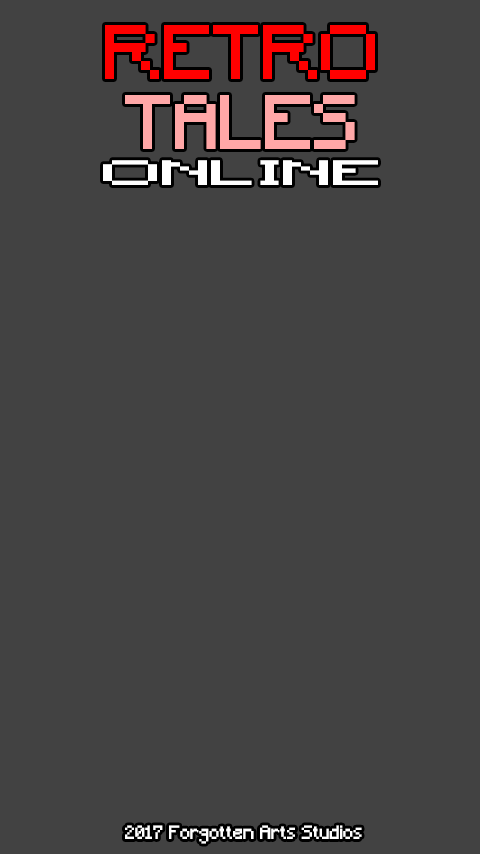
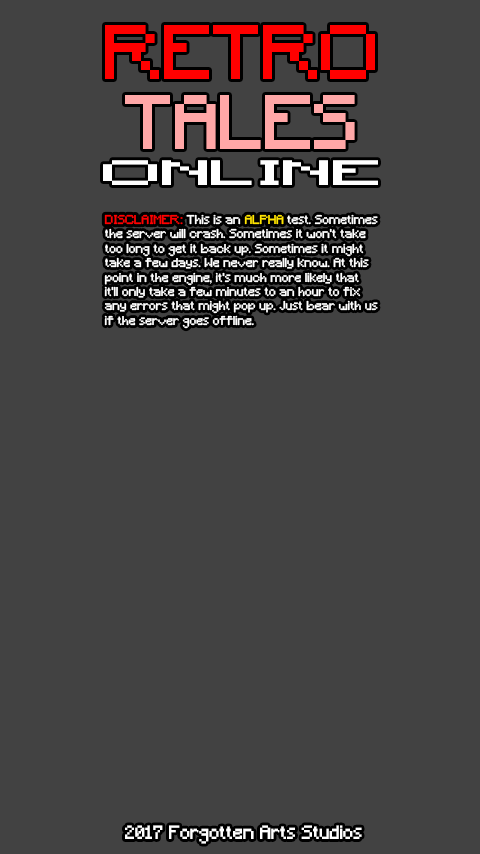
Added disclaimer to Android client.

Changed region(s): [[0.1875, 0.2436, 0.8125, 0.3958]]

diff --git a/rtoserver/src/main/java/com/forgottenartsstudios/networking/packetdata/HandleServerData.java b/rtoserver/src/main/java/com/forgottenartsstudios/networking/packetdata/HandleServerData.java
@@ -681,42 +681,48 @@ public class HandleServerData {
         switch (dir) {
             case ServerVars.DIR_UP:
                 for (int i = 1; i <= ServerVars.MaxMapNPCs; i++) {
-                    if (ServerVars.MapNPCs[mapNum].Npc[i].getX() == x && ServerVars.MapNPCs[mapNum].Npc[i].getY() == y - 1) {
-                        if (ServerVars.npcs[ServerVars.MapNPCs[mapNum].Npc[i].getNum()].Behaviour < 2 || ServerVars.npcs[ServerVars.MapNPCs[mapNum].Npc[i].getNum()].Behaviour == 10) {
-                            if (!ServerVars.MapNPCs[mapNum].Npc[i].isDead()) {
-                                // Damage Algorithm
-                                double diff = RTOServer.GetPlayerDamage(index) - RTOServer.GetNpcProtection(i);
-                                if (diff < 0) diff = 0;
+                    if (ServerVars.MapNPCs == null) { return; }
+                    if (ServerVars.MapNPCs[mapNum] == null) { return; }
+                    if (ServerVars.MapNPCs[mapNum].Npc == null) { return; }
+                    if (ServerVars.MapNPCs[mapNum].Npc[i] == null) { return; }
+                    if (!ServerVars.MapNPCs[mapNum].Npc[i].isDead()) {
+                        if (ServerVars.MapNPCs[mapNum].Npc[i].getX() == x && ServerVars.MapNPCs[mapNum].Npc[i].getY() == y - 1) {
+                            if (ServerVars.npcs[ServerVars.MapNPCs[mapNum].Npc[i].getNum()].Behaviour < 2 || ServerVars.npcs[ServerVars.MapNPCs[mapNum].Npc[i].getNum()].Behaviour == 10) {
+                                if (!ServerVars.MapNPCs[mapNum].Npc[i].isDead()) {
+                                    // Damage Algorithm
+                                    double diff = RTOServer.GetPlayerDamage(index) - RTOServer.GetNpcProtection(i);
+                                    if (diff < 0) diff = 0;
 
-                                // Increase up to 10% for minimum damage
-                                double minDam = diff - Math.round(diff * 0.1);
-                                double maxDam = diff + Math.round(diff * 0.1);
-                                if (maxDam < minDam) minDam = maxDam;
-                                int Damage = ServerVars.Rnd.nextInt((int)maxDam - (int)minDam + 1) + (int)minDam;
+                                    // Increase up to 10% for minimum damage
+                                    double minDam = diff - Math.round(diff * 0.1);
+                                    double maxDam = diff + Math.round(diff * 0.1);
+                                    if (maxDam < minDam) minDam = maxDam;
+                                    int Damage = ServerVars.Rnd.nextInt((int) maxDam - (int) minDam + 1) + (int) minDam;
 
-                                if (Damage > 0) {
-                                    ServerVars.MapNPCs[mapNum].Npc[i].setHP(ServerVars.MapNPCs[mapNum].Npc[i].getHP() - Damage);
-                                    ServerVars.MapNPCs[mapNum].Npc[i].setTarget(index);
-                                    ServerVars.MapNPCs[mapNum].Npc[i].setTargetType(ServerVars.TARGET_TYPE_PLAYER);
-                                    SendServerData.SendNPCDmg(index, i, Damage);
-                                    if (ServerVars.MapNPCs[mapNum].Npc[i].getHP() <= 0) {
-                                        ServerVars.MapNPCs[mapNum].Npc[i].setHP(0);
-                                        ServerVars.MapNPCs[mapNum].Npc[i].setDead(true);
-                                        ServerVars.MapNPCs[mapNum].Npc[i].setSpawnWait(ServerVars.npcs[ServerVars.MapNPCs[mapNum].Npc[i].getNum()].SpawnSecs);
+                                    if (Damage > 0) {
+                                        ServerVars.MapNPCs[mapNum].Npc[i].setHP(ServerVars.MapNPCs[mapNum].Npc[i].getHP() - Damage);
+                                        ServerVars.MapNPCs[mapNum].Npc[i].setTarget(index);
+                                        ServerVars.MapNPCs[mapNum].Npc[i].setTargetType(ServerVars.TARGET_TYPE_PLAYER);
+                                        SendServerData.SendNPCDmg(index, i, Damage);
+                                        if (ServerVars.MapNPCs[mapNum].Npc[i].getHP() <= 0) {
+                                            ServerVars.MapNPCs[mapNum].Npc[i].setHP(0);
+                                            ServerVars.MapNPCs[mapNum].Npc[i].setDead(true);
+                                            ServerVars.MapNPCs[mapNum].Npc[i].setSpawnWait(ServerVars.npcs[ServerVars.MapNPCs[mapNum].Npc[i].getNum()].SpawnSecs);
 
-                                        SendServerData.SendKillNPC(index, i, true);
-                                        for (int a = 1; a <= ServerVars.MaxPlayers; a++) {
-                                            if (a != index) {
-                                                if (ServerVars.Players[a] != null) {
-                                                    if (mapNum == ServerVars.Players[a].getMap()) {
-                                                        SendServerData.SendKillNPC(a, i, false);
+                                            SendServerData.SendKillNPC(index, i, true);
+                                            for (int a = 1; a <= ServerVars.MaxPlayers; a++) {
+                                                if (a != index) {
+                                                    if (ServerVars.Players[a] != null) {
+                                                        if (mapNum == ServerVars.Players[a].getMap()) {
+                                                            SendServerData.SendKillNPC(a, i, false);
+                                                        }
                                                     }
                                                 }
                                             }
                                         }
+                                    } else {
+                                        SendServerData.SendNPCDmg(index, i, 0);
                                     }
-                                } else {
-                                    SendServerData.SendNPCDmg(index, i, 0);
                                 }
                             }
                         }
@@ -725,42 +731,48 @@ public class HandleServerData {
                 break;
             case ServerVars.DIR_DOWN:
                 for (int i = 1; i <= ServerVars.MaxMapNPCs; i++) {
-                    if (ServerVars.MapNPCs[mapNum].Npc[i].getX() == x && ServerVars.MapNPCs[mapNum].Npc[i].getY() == y + 1) {
-                        if (ServerVars.npcs[ServerVars.MapNPCs[mapNum].Npc[i].getNum()].Behaviour < 2 || ServerVars.npcs[ServerVars.MapNPCs[mapNum].Npc[i].getNum()].Behaviour == 10) {
-                            if (!ServerVars.MapNPCs[mapNum].Npc[i].isDead()) {
-                                // Damage Algorithm
-                                double diff = RTOServer.GetPlayerDamage(index) - RTOServer.GetNpcProtection(i);
-                                if (diff < 0) diff = 0;
+                    if (ServerVars.MapNPCs == null) { return; }
+                    if (ServerVars.MapNPCs[mapNum] == null) { return; }
+                    if (ServerVars.MapNPCs[mapNum].Npc == null) { return; }
+                    if (ServerVars.MapNPCs[mapNum].Npc[i] == null) { return; }
+                    if (!ServerVars.MapNPCs[mapNum].Npc[i].isDead()) {
+                        if (ServerVars.MapNPCs[mapNum].Npc[i].getX() == x && ServerVars.MapNPCs[mapNum].Npc[i].getY() == y + 1) {
+                            if (ServerVars.npcs[ServerVars.MapNPCs[mapNum].Npc[i].getNum()].Behaviour < 2 || ServerVars.npcs[ServerVars.MapNPCs[mapNum].Npc[i].getNum()].Behaviour == 10) {
+                                if (!ServerVars.MapNPCs[mapNum].Npc[i].isDead()) {
+                                    // Damage Algorithm
+                                    double diff = RTOServer.GetPlayerDamage(index) - RTOServer.GetNpcProtection(i);
+                                    if (diff < 0) diff = 0;
 
-                                // Increase up to 10% for minimum damage
-                                double minDam = diff - Math.round(diff * 0.1);
-                                double maxDam = diff + Math.round(diff * 0.1);
-                                if (maxDam < minDam) minDam = maxDam;
-                                int Damage = ServerVars.Rnd.nextInt((int)maxDam - (int)minDam + 1) + (int)minDam;
+                                    // Increase up to 10% for minimum damage
+                                    double minDam = diff - Math.round(diff * 0.1);
+                                    double maxDam = diff + Math.round(diff * 0.1);
+                                    if (maxDam < minDam) minDam = maxDam;
+                                    int Damage = ServerVars.Rnd.nextInt((int) maxDam - (int) minDam + 1) + (int) minDam;
 
-                                if (Damage > 0) {
-                                    ServerVars.MapNPCs[mapNum].Npc[i].setHP(ServerVars.MapNPCs[mapNum].Npc[i].getHP() - Damage);
-                                    ServerVars.MapNPCs[mapNum].Npc[i].setTarget(index);
-                                    ServerVars.MapNPCs[mapNum].Npc[i].setTargetType(ServerVars.TARGET_TYPE_PLAYER);
-                                    SendServerData.SendNPCDmg(index, i, Damage);
-                                    if (ServerVars.MapNPCs[mapNum].Npc[i].getHP() <= 0) {
-                                        ServerVars.MapNPCs[mapNum].Npc[i].setHP(0);
-                                        ServerVars.MapNPCs[mapNum].Npc[i].setDead(true);
-                                        ServerVars.MapNPCs[mapNum].Npc[i].setSpawnWait(ServerVars.npcs[ServerVars.MapNPCs[mapNum].Npc[i].getNum()].SpawnSecs);
+                                    if (Damage > 0) {
+                                        ServerVars.MapNPCs[mapNum].Npc[i].setHP(ServerVars.MapNPCs[mapNum].Npc[i].getHP() - Damage);
+                                        ServerVars.MapNPCs[mapNum].Npc[i].setTarget(index);
+                                        ServerVars.MapNPCs[mapNum].Npc[i].setTargetType(ServerVars.TARGET_TYPE_PLAYER);
+                                        SendServerData.SendNPCDmg(index, i, Damage);
+                                        if (ServerVars.MapNPCs[mapNum].Npc[i].getHP() <= 0) {
+                                            ServerVars.MapNPCs[mapNum].Npc[i].setHP(0);
+                                            ServerVars.MapNPCs[mapNum].Npc[i].setDead(true);
+                                            ServerVars.MapNPCs[mapNum].Npc[i].setSpawnWait(ServerVars.npcs[ServerVars.MapNPCs[mapNum].Npc[i].getNum()].SpawnSecs);
 
-                                        SendServerData.SendKillNPC(index, i, true);
-                                        for (int a = 1; a <= ServerVars.MaxPlayers; a++) {
-                                            if (a != index) {
-                                                if (ServerVars.Players[a] != null) {
-                                                    if (mapNum == ServerVars.Players[a].getMap()) {
-                                                        SendServerData.SendKillNPC(a, i, false);
+                                            SendServerData.SendKillNPC(index, i, true);
+                                            for (int a = 1; a <= ServerVars.MaxPlayers; a++) {
+                                                if (a != index) {
+                                                    if (ServerVars.Players[a] != null) {
+                                                        if (mapNum == ServerVars.Players[a].getMap()) {
+                                                            SendServerData.SendKillNPC(a, i, false);
+                                                        }
                                                     }
                                                 }
                                             }
                                         }
+                                    } else {
+                                        SendServerData.SendNPCDmg(index, i, 0);
                                     }
-                                } else {
-                                    SendServerData.SendNPCDmg(index, i, 0);
                                 }
                             }
                         }
@@ -769,42 +781,48 @@ public class HandleServerData {
                 break;
             case ServerVars.DIR_LEFT:
                 for (int i = 1; i <= ServerVars.MaxMapNPCs; i++) {
-                    if (ServerVars.MapNPCs[mapNum].Npc[i].getX() == x - 1 && ServerVars.MapNPCs[mapNum].Npc[i].getY() == y) {
-                        if (ServerVars.npcs[ServerVars.MapNPCs[mapNum].Npc[i].getNum()].Behaviour < 2 || ServerVars.npcs[ServerVars.MapNPCs[mapNum].Npc[i].getNum()].Behaviour == 10) {
-                            if (!ServerVars.MapNPCs[mapNum].Npc[i].isDead()) {
-                                // Damage Algorithm
-                                double diff = RTOServer.GetPlayerDamage(index) - RTOServer.GetNpcProtection(i);
-                                if (diff < 0) diff = 0;
+                    if (ServerVars.MapNPCs == null) { return; }
+                    if (ServerVars.MapNPCs[mapNum] == null) { return; }
+                    if (ServerVars.MapNPCs[mapNum].Npc == null) { return; }
+                    if (ServerVars.MapNPCs[mapNum].Npc[i] == null) { return; }
+                    if (!ServerVars.MapNPCs[mapNum].Npc[i].isDead()) {
+                        if (ServerVars.MapNPCs[mapNum].Npc[i].getX() == x - 1 && ServerVars.MapNPCs[mapNum].Npc[i].getY() == y) {
+                            if (ServerVars.npcs[ServerVars.MapNPCs[mapNum].Npc[i].getNum()].Behaviour < 2 || ServerVars.npcs[ServerVars.MapNPCs[mapNum].Npc[i].getNum()].Behaviour == 10) {
+                                if (!ServerVars.MapNPCs[mapNum].Npc[i].isDead()) {
+                                    // Damage Algorithm
+                                    double diff = RTOServer.GetPlayerDamage(index) - RTOServer.GetNpcProtection(i);
+                                    if (diff < 0) diff = 0;
 
-                                // Increase up to 10% for minimum damage
-                                double minDam = diff - Math.round(diff * 0.1);
-                                double maxDam = diff + Math.round(diff * 0.1);
-                                if (maxDam < minDam) minDam = maxDam;
-                                int Damage = ServerVars.Rnd.nextInt((int)maxDam - (int)minDam + 1) + (int)minDam;
+                                    // Increase up to 10% for minimum damage
+                                    double minDam = diff - Math.round(diff * 0.1);
+                                    double maxDam = diff + Math.round(diff * 0.1);
+                                    if (maxDam < minDam) minDam = maxDam;
+                                    int Damage = ServerVars.Rnd.nextInt((int) maxDam - (int) minDam + 1) + (int) minDam;
 
-                                if (Damage > 0) {
-                                    ServerVars.MapNPCs[mapNum].Npc[i].setHP(ServerVars.MapNPCs[mapNum].Npc[i].getHP() - Damage);
-                                    ServerVars.MapNPCs[mapNum].Npc[i].setTarget(index);
-                                    ServerVars.MapNPCs[mapNum].Npc[i].setTargetType(ServerVars.TARGET_TYPE_PLAYER);
-                                    SendServerData.SendNPCDmg(index, i, Damage);
-                                    if (ServerVars.MapNPCs[mapNum].Npc[i].getHP() <= 0) {
-                                        ServerVars.MapNPCs[mapNum].Npc[i].setHP(0);
-                                        ServerVars.MapNPCs[mapNum].Npc[i].setDead(true);
-                                        ServerVars.MapNPCs[mapNum].Npc[i].setSpawnWait(ServerVars.npcs[ServerVars.MapNPCs[mapNum].Npc[i].getNum()].SpawnSecs);
+                                    if (Damage > 0) {
+                                        ServerVars.MapNPCs[mapNum].Npc[i].setHP(ServerVars.MapNPCs[mapNum].Npc[i].getHP() - Damage);
+                                        ServerVars.MapNPCs[mapNum].Npc[i].setTarget(index);
+                                        ServerVars.MapNPCs[mapNum].Npc[i].setTargetType(ServerVars.TARGET_TYPE_PLAYER);
+                                        SendServerData.SendNPCDmg(index, i, Damage);
+                                        if (ServerVars.MapNPCs[mapNum].Npc[i].getHP() <= 0) {
+                                            ServerVars.MapNPCs[mapNum].Npc[i].setHP(0);
+                                            ServerVars.MapNPCs[mapNum].Npc[i].setDead(true);
+                                            ServerVars.MapNPCs[mapNum].Npc[i].setSpawnWait(ServerVars.npcs[ServerVars.MapNPCs[mapNum].Npc[i].getNum()].SpawnSecs);
 
-                                        SendServerData.SendKillNPC(index, i, true);
-                                        for (int a = 1; a <= ServerVars.MaxPlayers; a++) {
-                                            if (a != index) {
-                                                if (ServerVars.Players[a] != null) {
-                                                    if (mapNum == ServerVars.Players[a].getMap()) {
-                                                        SendServerData.SendKillNPC(a, i, false);
+                                            SendServerData.SendKillNPC(index, i, true);
+                                            for (int a = 1; a <= ServerVars.MaxPlayers; a++) {
+                                                if (a != index) {
+                                                    if (ServerVars.Players[a] != null) {
+                                                        if (mapNum == ServerVars.Players[a].getMap()) {
+                                                            SendServerData.SendKillNPC(a, i, false);
+                                                        }
                                                     }
                                                 }
                                             }
                                         }
+                                    } else {
+                                        SendServerData.SendNPCDmg(index, i, 0);
                                     }
-                                } else {
-                                    SendServerData.SendNPCDmg(index, i, 0);
                                 }
                             }
                         }
@@ -813,42 +831,48 @@ public class HandleServerData {
                 break;
             case ServerVars.DIR_RIGHT:
                 for (int i = 1; i <= ServerVars.MaxMapNPCs; i++) {
-                    if (ServerVars.MapNPCs[mapNum].Npc[i].getX() == x + 1 && ServerVars.MapNPCs[mapNum].Npc[i].getY() == y) {
-                        if (ServerVars.npcs[ServerVars.MapNPCs[mapNum].Npc[i].getNum()].Behaviour < 2 || ServerVars.npcs[ServerVars.MapNPCs[mapNum].Npc[i].getNum()].Behaviour == 10) {
-                            if (!ServerVars.MapNPCs[mapNum].Npc[i].isDead()) {
-                                // Damage Algorithm
-                                double diff = RTOServer.GetPlayerDamage(index) - RTOServer.GetNpcProtection(i);
-                                if (diff < 0) diff = 0;
+                    if (ServerVars.MapNPCs == null) { return; }
+                    if (ServerVars.MapNPCs[mapNum] == null) { return; }
+                    if (ServerVars.MapNPCs[mapNum].Npc == null) { return; }
+                    if (ServerVars.MapNPCs[mapNum].Npc[i] == null) { return; }
+                    if (!ServerVars.MapNPCs[mapNum].Npc[i].isDead()) {
+                        if (ServerVars.MapNPCs[mapNum].Npc[i].getX() == x + 1 && ServerVars.MapNPCs[mapNum].Npc[i].getY() == y) {
+                            if (ServerVars.npcs[ServerVars.MapNPCs[mapNum].Npc[i].getNum()].Behaviour < 2 || ServerVars.npcs[ServerVars.MapNPCs[mapNum].Npc[i].getNum()].Behaviour == 10) {
+                                if (!ServerVars.MapNPCs[mapNum].Npc[i].isDead()) {
+                                    // Damage Algorithm
+                                    double diff = RTOServer.GetPlayerDamage(index) - RTOServer.GetNpcProtection(i);
+                                    if (diff < 0) diff = 0;
 
-                                // Increase up to 10% for minimum damage
-                                double minDam = diff - Math.round(diff * 0.1);
-                                double maxDam = diff + Math.round(diff * 0.1);
-                                if (maxDam < minDam) minDam = maxDam;
-                                int Damage = ServerVars.Rnd.nextInt((int)maxDam - (int)minDam + 1) + (int)minDam;
+                                    // Increase up to 10% for minimum damage
+                                    double minDam = diff - Math.round(diff * 0.1);
+                                    double maxDam = diff + Math.round(diff * 0.1);
+                                    if (maxDam < minDam) minDam = maxDam;
+                                    int Damage = ServerVars.Rnd.nextInt((int) maxDam - (int) minDam + 1) + (int) minDam;
 
-                                if (Damage > 0) {
-                                    ServerVars.MapNPCs[mapNum].Npc[i].setHP(ServerVars.MapNPCs[mapNum].Npc[i].getHP() - Damage);
-                                    ServerVars.MapNPCs[mapNum].Npc[i].setTarget(index);
-                                    ServerVars.MapNPCs[mapNum].Npc[i].setTargetType(ServerVars.TARGET_TYPE_PLAYER);
-                                    SendServerData.SendNPCDmg(index, i, Damage);
-                                    if (ServerVars.MapNPCs[mapNum].Npc[i].getHP() <= 0) {
-                                        ServerVars.MapNPCs[mapNum].Npc[i].setHP(0);
-                                        ServerVars.MapNPCs[mapNum].Npc[i].setDead(true);
-                                        ServerVars.MapNPCs[mapNum].Npc[i].setSpawnWait(ServerVars.npcs[ServerVars.MapNPCs[mapNum].Npc[i].getNum()].SpawnSecs);
+                                    if (Damage > 0) {
+                                        ServerVars.MapNPCs[mapNum].Npc[i].setHP(ServerVars.MapNPCs[mapNum].Npc[i].getHP() - Damage);
+                                        ServerVars.MapNPCs[mapNum].Npc[i].setTarget(index);
+                                        ServerVars.MapNPCs[mapNum].Npc[i].setTargetType(ServerVars.TARGET_TYPE_PLAYER);
+                                        SendServerData.SendNPCDmg(index, i, Damage);
+                                        if (ServerVars.MapNPCs[mapNum].Npc[i].getHP() <= 0) {
+                                            ServerVars.MapNPCs[mapNum].Npc[i].setHP(0);
+                                            ServerVars.MapNPCs[mapNum].Npc[i].setDead(true);
+                                            ServerVars.MapNPCs[mapNum].Npc[i].setSpawnWait(ServerVars.npcs[ServerVars.MapNPCs[mapNum].Npc[i].getNum()].SpawnSecs);
 
-                                        SendServerData.SendKillNPC(index, i, true);
-                                        for (int a = 1; a <= ServerVars.MaxPlayers; a++) {
-                                            if (a != index) {
-                                                if (ServerVars.Players[a] != null) {
-                                                    if (mapNum == ServerVars.Players[a].getMap()) {
-                                                        SendServerData.SendKillNPC(a, i, false);
+                                            SendServerData.SendKillNPC(index, i, true);
+                                            for (int a = 1; a <= ServerVars.MaxPlayers; a++) {
+                                                if (a != index) {
+                                                    if (ServerVars.Players[a] != null) {
+                                                        if (mapNum == ServerVars.Players[a].getMap()) {
+                                                            SendServerData.SendKillNPC(a, i, false);
+                                                        }
                                                     }
                                                 }
                                             }
                                         }
+                                    } else {
+                                        SendServerData.SendNPCDmg(index, i, 0);
                                     }
-                                } else {
-                                    SendServerData.SendNPCDmg(index, i, 0);
                                 }
                             }
                         }
@@ -1101,7 +1125,6 @@ public class HandleServerData {
                 String[] whisper = msg.split(" ");
                 for (int i = 1; i <= ServerVars.MaxPlayers; i++) {
                     if (ServerVars.Players[i] != null) {
-                        System.out.println(whisper[0]);
                         if (ServerVars.Players[i].getName() != null && !ServerVars.Players[i].getName().isEmpty()) {
                             if (ServerVars.Players[i].getName().equals(whisper[0])) {
                                 String whisp = msg.substring(msg.indexOf(" ") + 1);

diff --git a/editorsuite/src/main/java/com/forgottenartsstudios/editorsuite/editorSuite.java b/editorsuite/src/main/java/com/forgottenartsstudios/editorsuite/editorSuite.java
@@ -169,12 +169,10 @@ public class editorSuite extends Game {
             }
         });
 
-        btnUndo.setText("Undo");
         btnUndo.setBounds(215, 465, 80, 25);
         btnUndo.addActionListener(new ActionListener() {
             @Override
             public void actionPerformed(ActionEvent e) {
-                System.out.println("currentUndo: " + editorVars.currentUndo);
                 if (editorVars.currentUndo == 1) {
                     editorVars.mapRender = editorVars.undoMapRender[1];
                     editorVars.currentUndo = 0;
